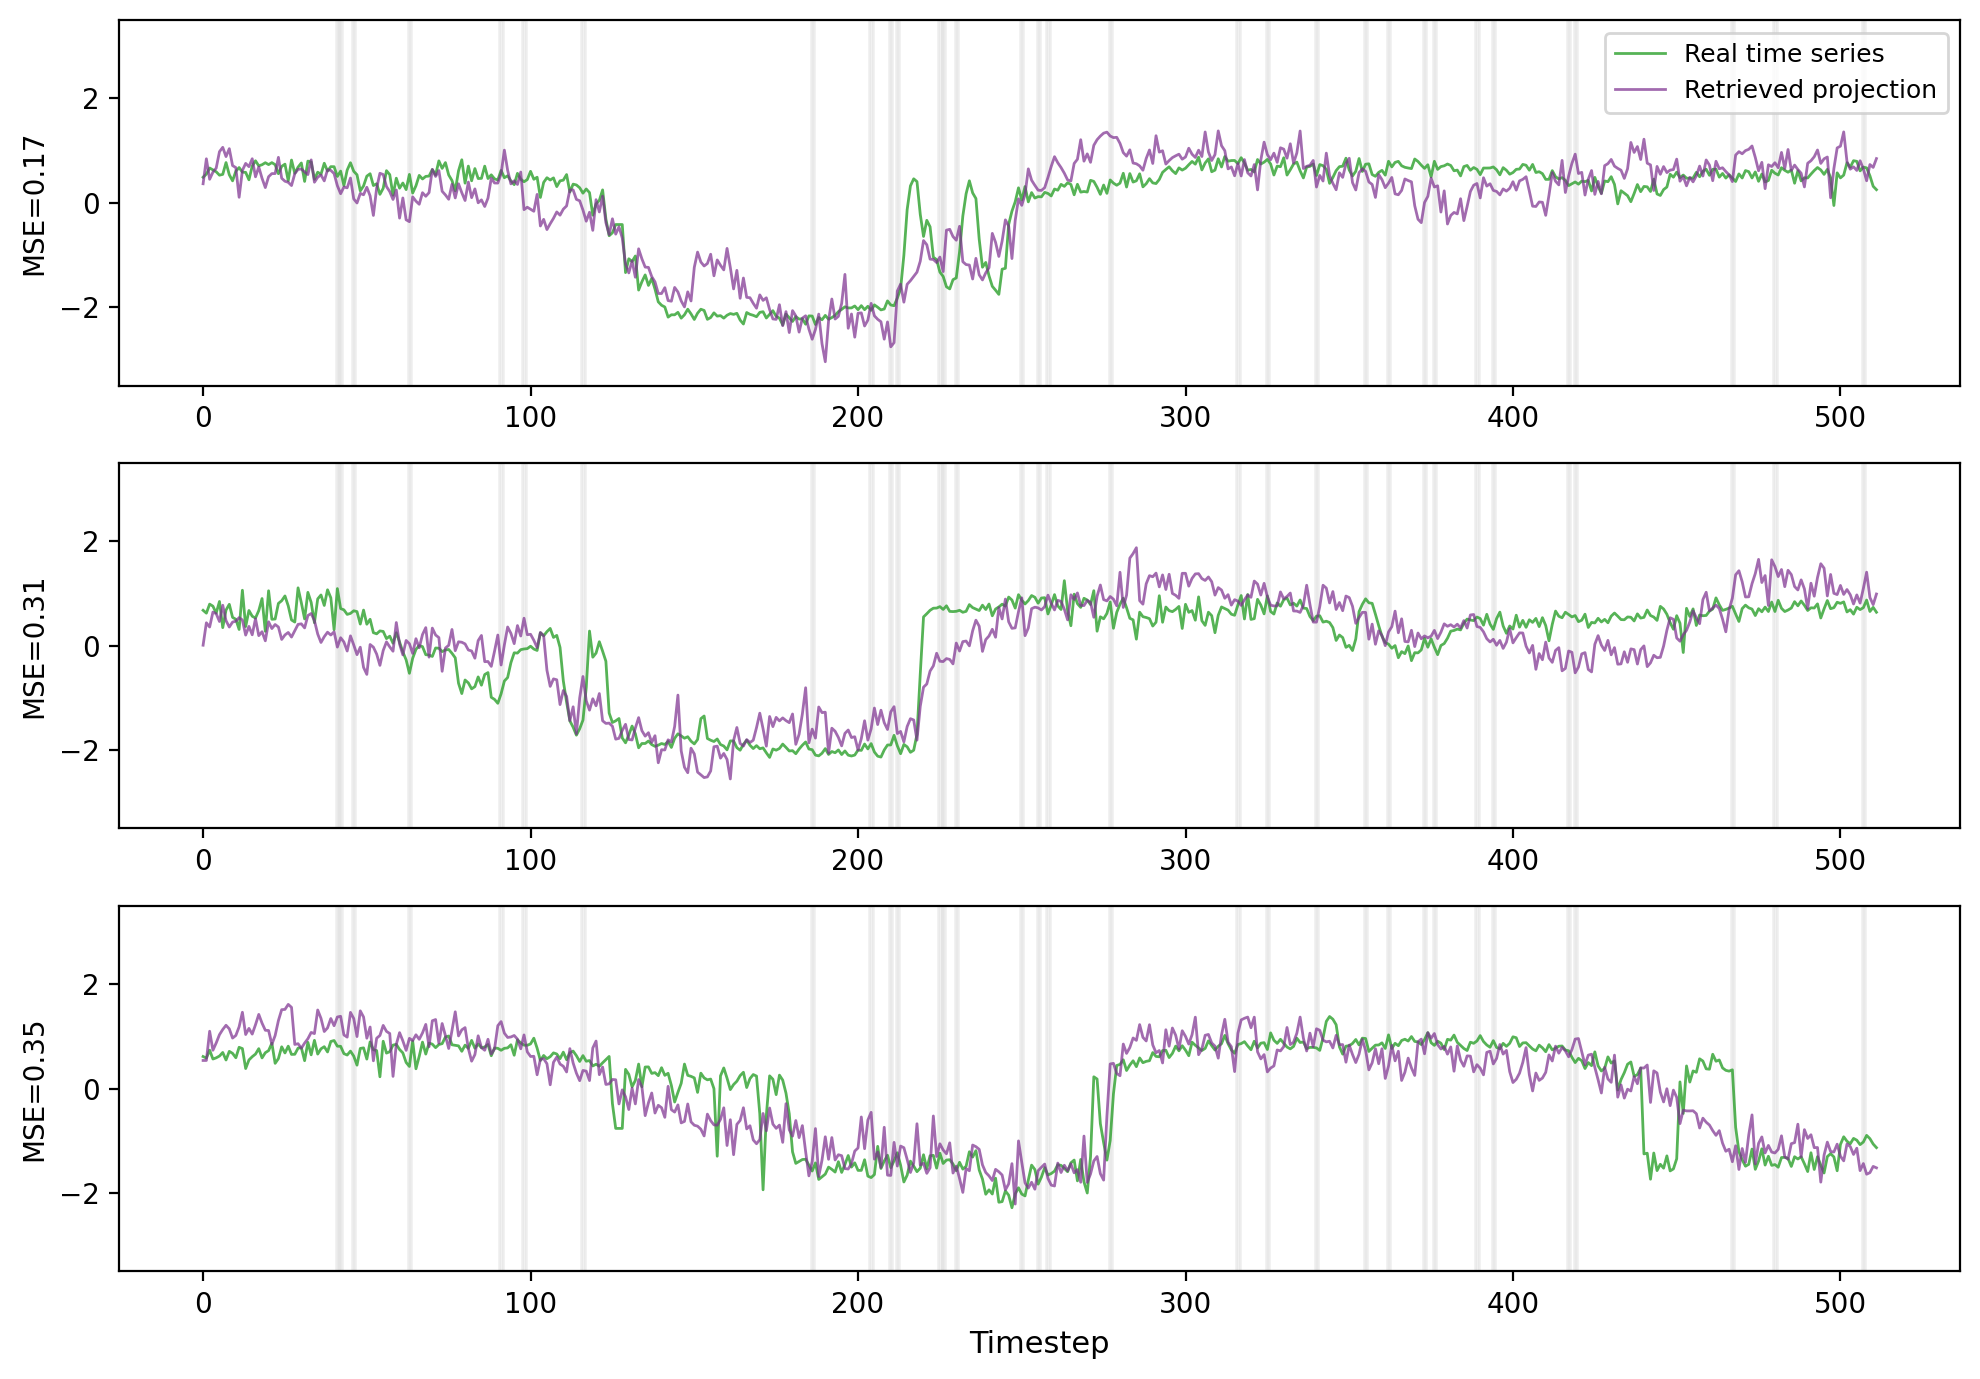
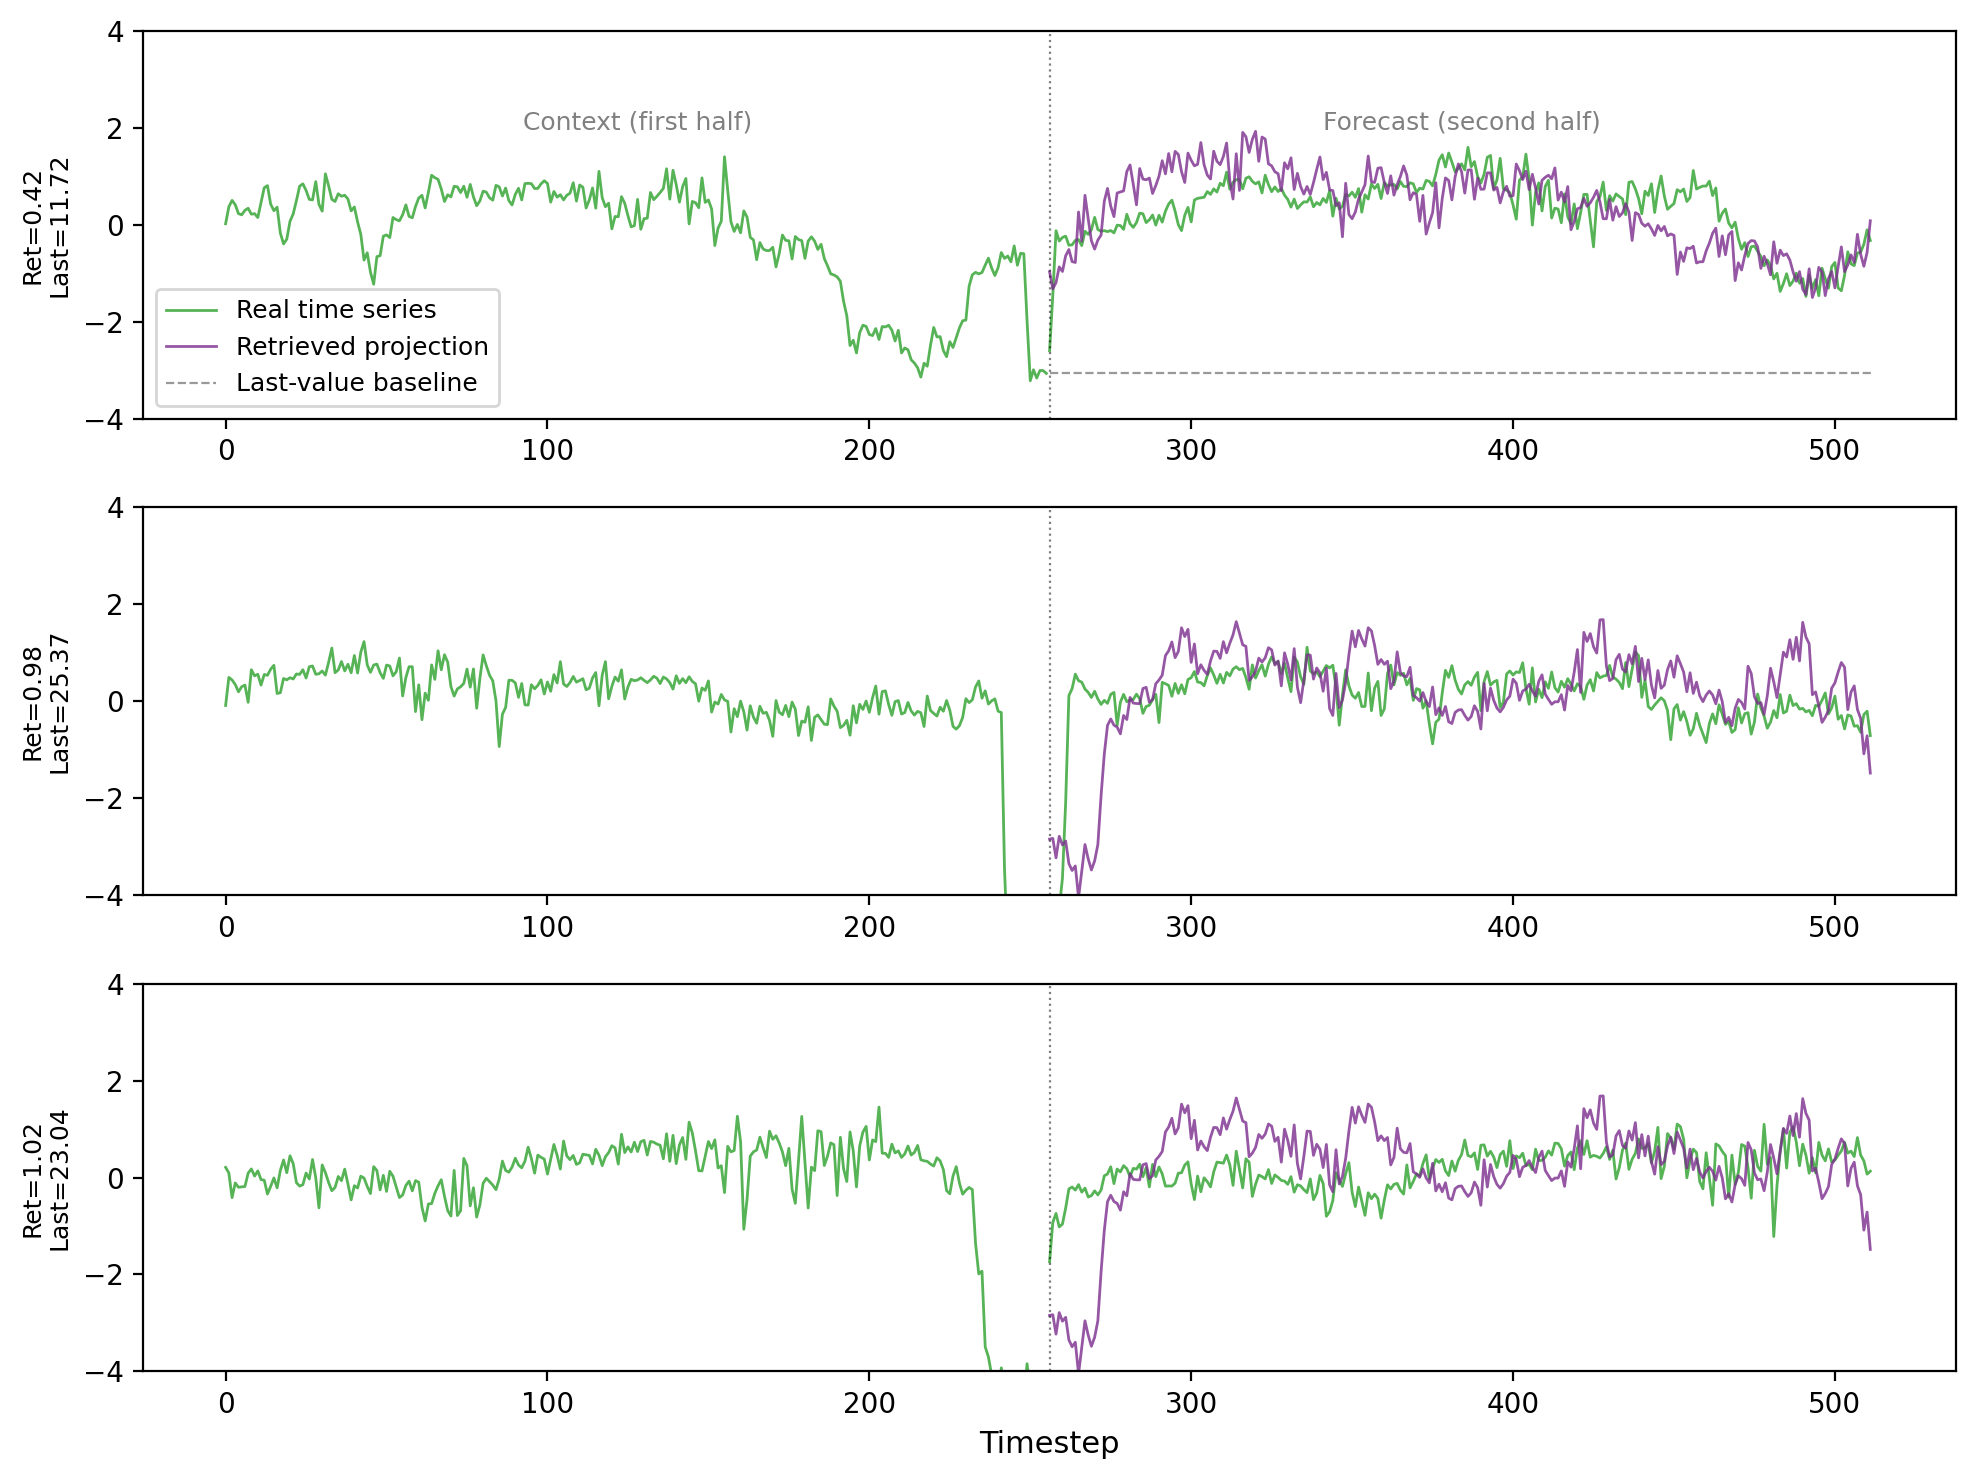
Add forecasting subsection: retrieved projections beat last-value by 16%
First-half retrieval → second-half forecast (256 of 512 timesteps):
- Retrieval MSE=1.91 vs last-value MSE=2.27 (16% lower)
- Wins in 37% of cases with median 4x advantage when it wins
- Examples show projection captures trends/shifts that last-value misses

diff --git a/NeurIPS26/sections/3_pretrain_manifold.tex b/NeurIPS26/sections/3_pretrain_manifold.tex
@@ -51,6 +51,23 @@ rand + RandInit       & 99/1920           & 138/1000           & 0.741 & 14/20 \
 The ablation reveals a clear interaction. \textbf{Pretrained weights} create a structured, low-dimensional manifold---but random tokens fail to traverse it (rand+PT collapses to 4 unique outputs). \textbf{Meaningful text} provides variation---but without pretrained weights, this variation is unstructured noise (text+RandInit). Only the combination produces diverse, high-quality temporal signals: the pretrained manifold provides the geometry, and text input drives diverse traversal of it.
 
 
+\subsection{The Projected Dynamics Forecast Beyond the Context}
+\label{sec:forecasting}
+
+The linear decoding result shows shape-level similarity between projected hidden states and real time series. We test whether this extends to \emph{predictive} structure: given the first half of a time series, can a retrieved text projection forecast the second half?
+
+\paragraph{Method.} We take 500 real time series from GiftEval and observe only the first 256 of 512 timesteps. Among 10{,}000 WikiText projections, we retrieve the one with lowest MSE on the observed first half. We then use that projection's second half as the forecast. The baseline is last-value carry-forward (repeating the final observed value).
+
+\paragraph{Result.} Across all 500 queries, the retrieval-based forecast achieves MSE $= 1.91$ versus last-value's $2.27$ ($16\%$ lower). The retrieval wins in $37\%$ of cases; when it wins, the advantage is large (median $4\times$ lower MSE), because the retrieved projection captures trends and level shifts that last-value misses entirely.
+
+\begin{figure}[h]
+\centering
+\includegraphics[width=\textwidth]{figures/sec4/panel_forecasting.png}
+\caption{Forecasting the second half of a time series from a retrieved WikiText projection. The first 256 timesteps (left of dotted line) are used to retrieve the best-matching projection. The projection's second half (purple) tracks the real continuation (green), while last-value carry-forward (gray dashed) cannot capture trends or level shifts. MSE shown per example.}
+\label{fig:forecasting}
+\end{figure}
+
+
 \subsection{Why the Manifold Enables Efficient Transfer}
 \label{sec:math}
 
